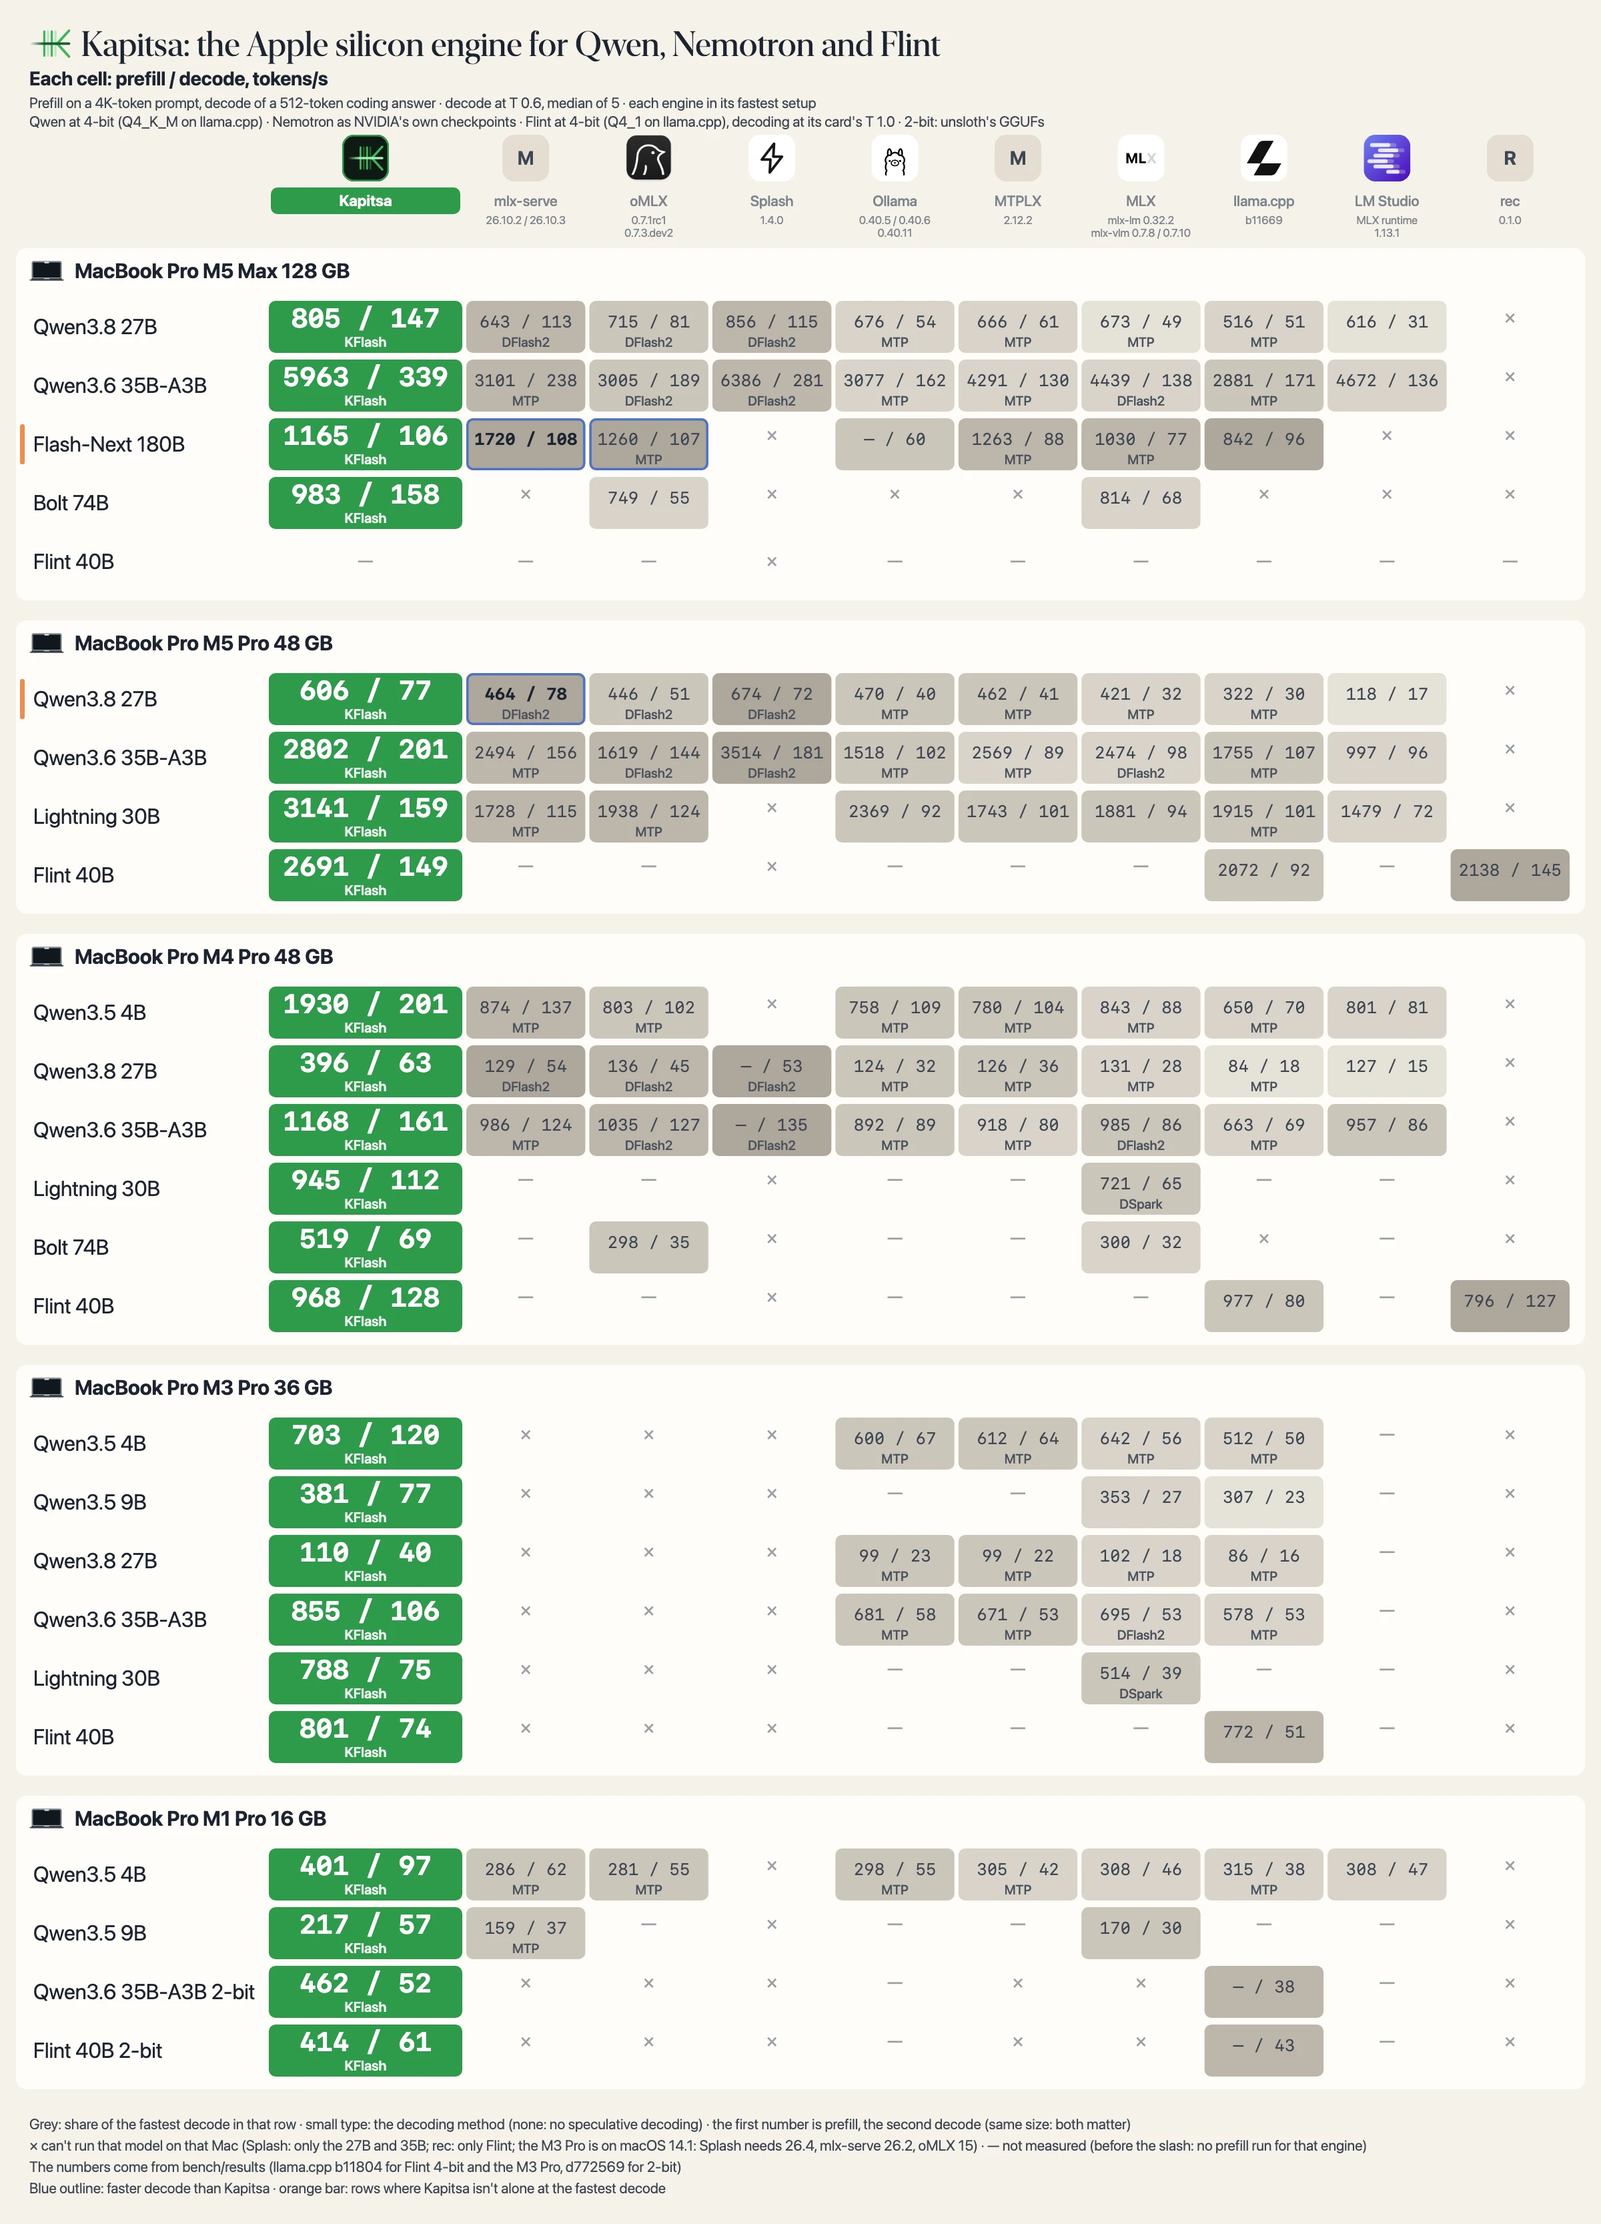
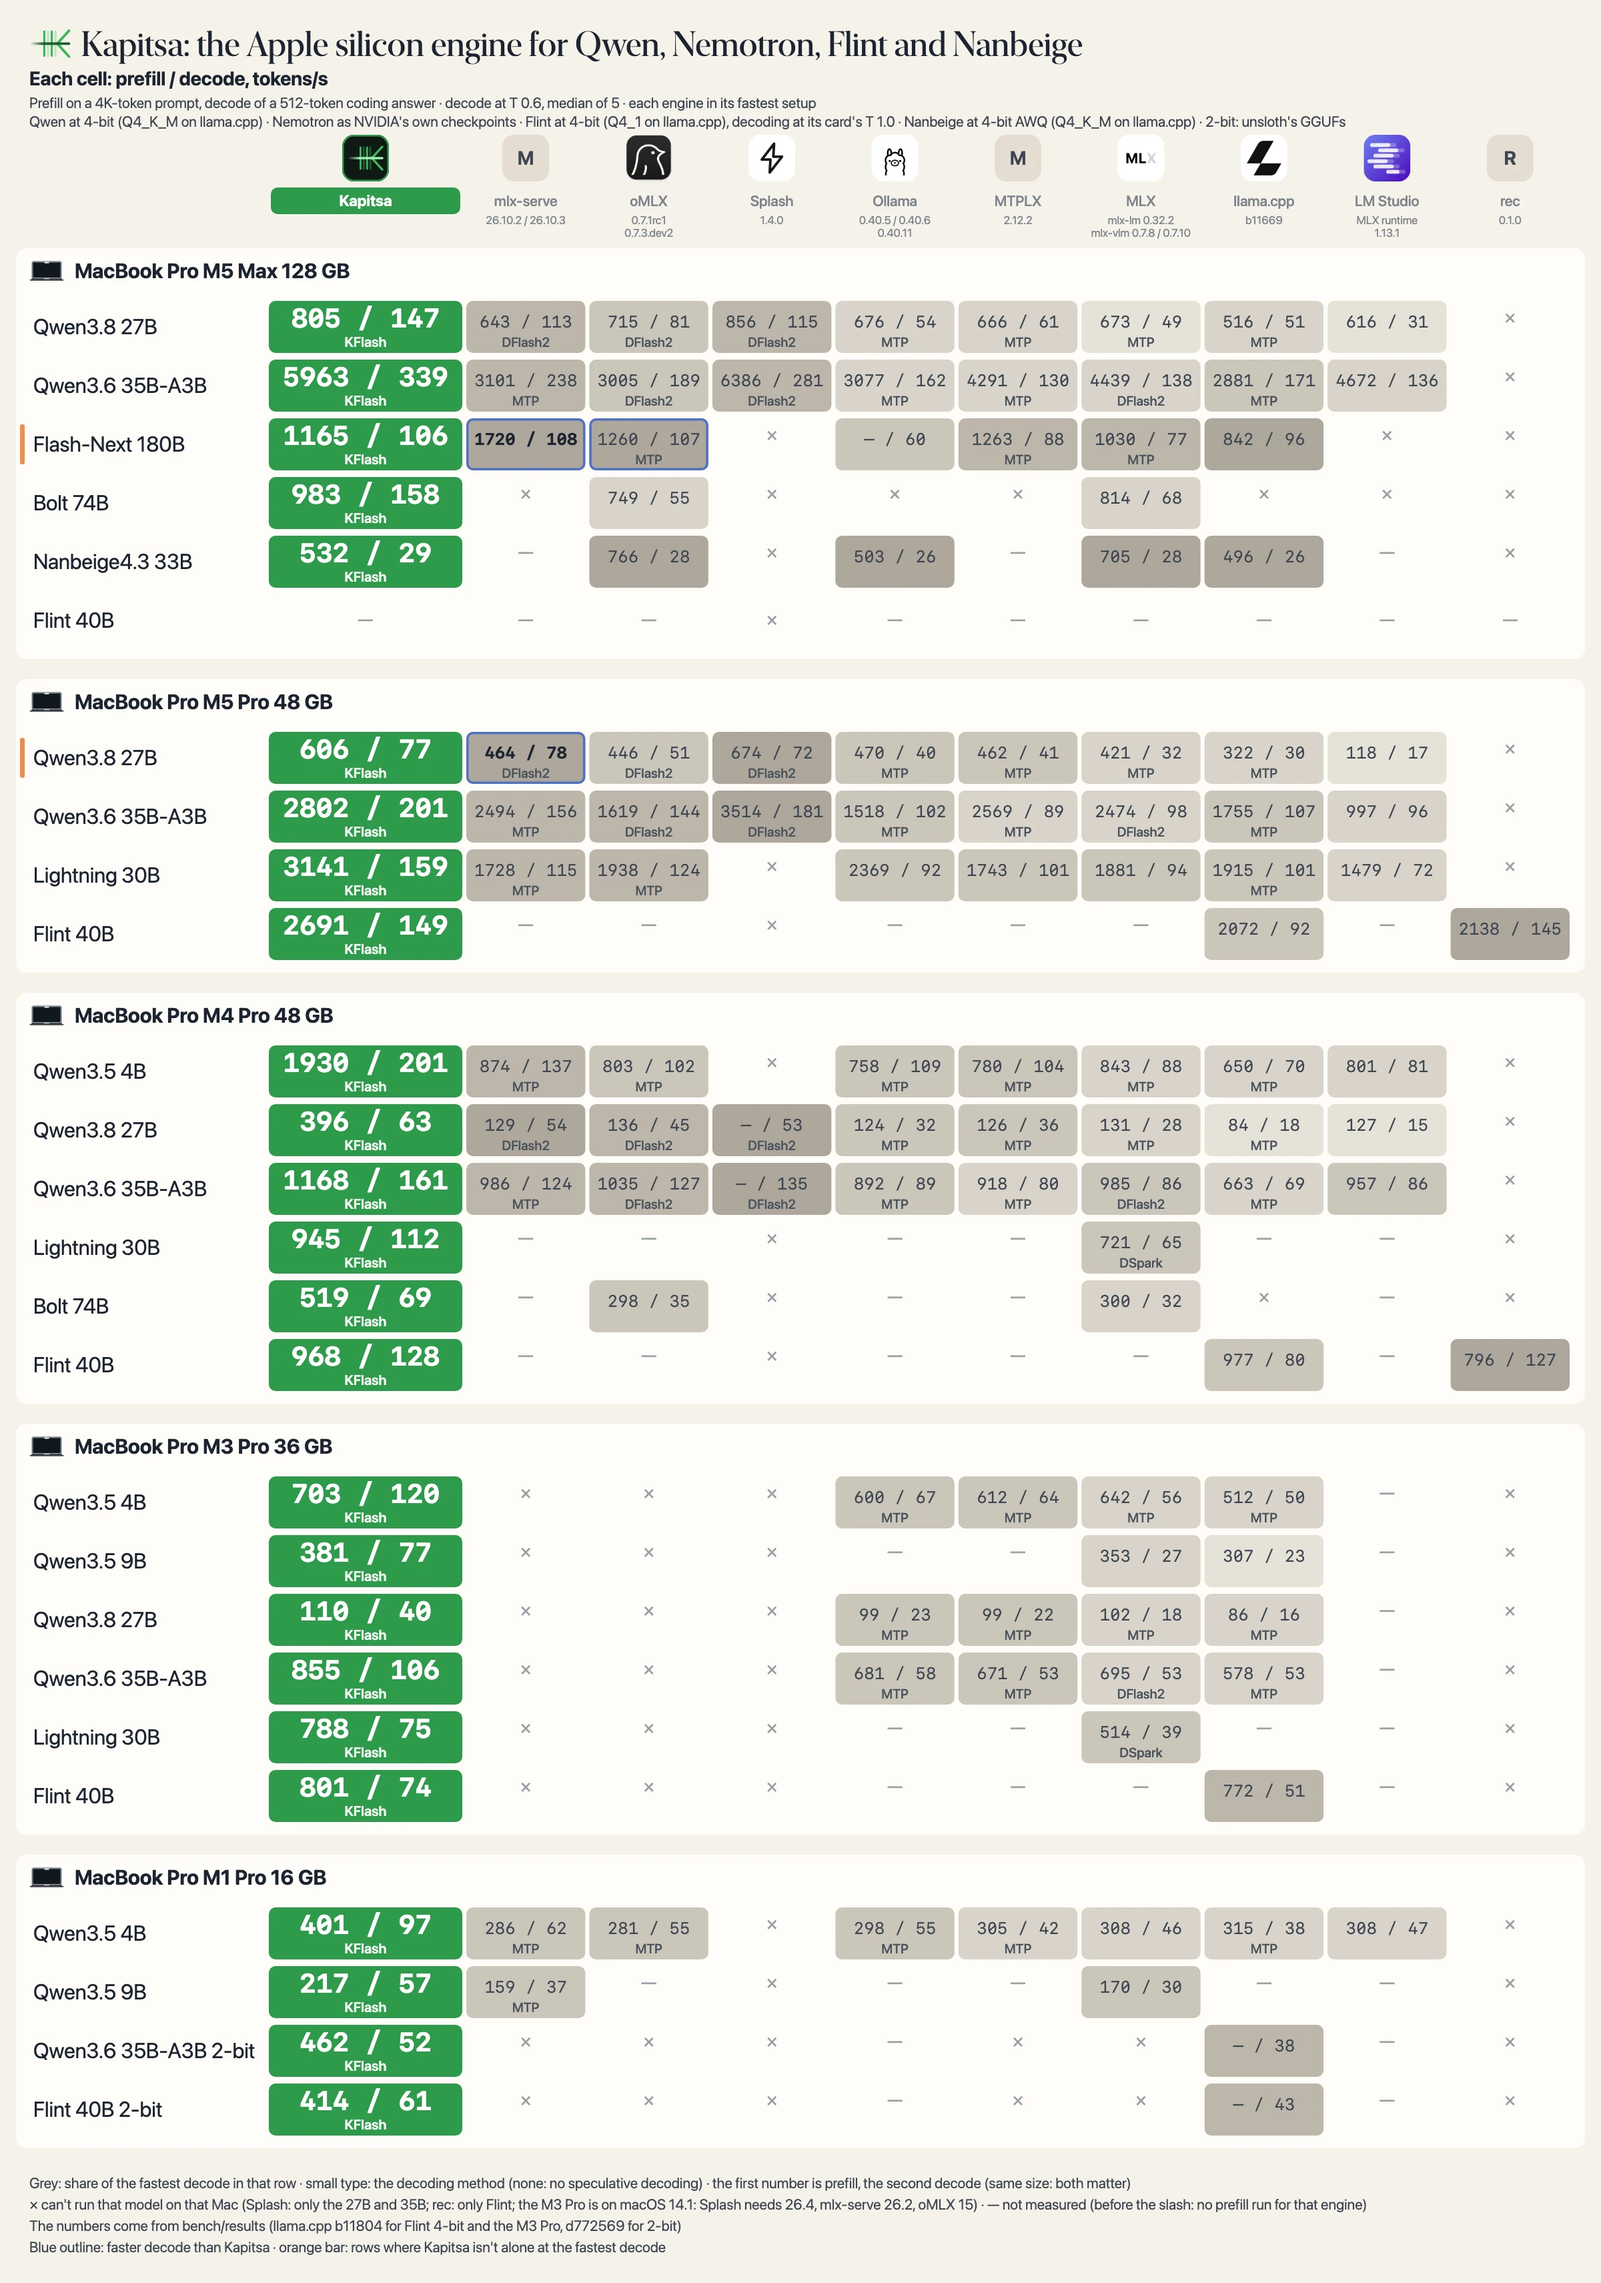
Poster and tables: Nanbeige4.3-33B on the M5 Max (Kapitsa 532 / 29 tok/s, the row's fastest decode; 33 of 37 pairs)

Changed region(s): [[0.0, 0.0, 1.0, 0.9982], [0.9062, 0.5615, 1.0, 0.6239], [0.7812, 0.0624, 0.8125, 0.0936]]

diff --git a/tests/test_readme_images.py b/tests/test_readme_images.py
@@ -25,7 +25,7 @@ for r in rows:
     if ri.is_num(v):
         n += 1
         assert label == "KFlash", (r["model"], label)
-assert n == 37, n   # every Kapitsa number in readme_images.json; update when cells are added or removed
+assert n == 38, n   # every Kapitsa number in readme_images.json; update when cells are added or removed
 assert all(h["method"] == "KFlash" for h in ri.header_rows(data) if h["kap"] and h["value"] is not None)
 hr = ri.header_rows(data)   # the header SVGs' <desc> (and the README alt text) name Kapitsa's method as KFlash
 assert "Kapitsa with KFlash " in ri.header_desc(data, hr), ri.header_desc(data, hr)

diff --git a/README.md b/README.md
@@ -13,7 +13,7 @@ Kapitsa is an inference engine for Apple silicon that runs Qwen, Nemotron and Re
 - [2026/10] 🪶 **Flint on a 16 GB Mac: decodes at 61 tok/s vs llama.cpp's 43 on the same 2-bit GGUF.** `--model flint` takes unsloth's 2-bit GGUF on 16-24 GB Macs: its routed experts run as stored, the rest requantized to 3-6 bits. 61 tok/s decode on an M1 Pro, in 11.6 GB ([numbers](docs/benchmarks.md#recursive-flint-40b-a25b-with-2-bit-experts-m1-pro-16-gb-2026-10-22)).
 - [2026/10] 🪨 **Recursive's Flint 40B-A2.5B: Kapitsa reads prompts faster than Recursive's own engine and decodes faster than llama.cpp.** On the M4 Pro every Kapitsa run read 4K and 16K prompts faster than every run of rec 0.1.0. On the M5 Pro, since Flint's attention moved to the tensor units (#345), both runs read 4K and 16K prompts faster than rec's and llama.cpp's; earlier builds read slower, and both runs carry harness flags. On both Macs every Kapitsa run decodes faster than llama.cpp ([M4 Pro](docs/benchmarks.md#recursive-flint-40b-a25b-m4-pro-2026-10-22), [M5 Pro](docs/benchmarks.md#recursive-flint-40b-a25b-m5-pro-2026-10-22)).
 - [2026/10] 🚀 **KFlash: tree speculative decoding, up to 3.5× llama.cpp and 2.2× oMLX.** One verify pass checks a whole tree of the drafter's guesses ([how it works](docs/kflash.md)).
-- [2026/10] 🏆 **Kapitsa: the fastest decode in 32 of 36 model and Mac pairs** against nine engines, up to 3.0× MLX ([poster](#benchmarks)).
+- [2026/10] 🏆 **Kapitsa: the fastest decode in 33 of 37 model and Mac pairs** against nine engines, up to 3.0× MLX ([poster](#benchmarks)).
 - [2026/10] 🤝 **KFlash budget: subagents decode together.** Three requests at once share one verify pass, up to **+23% total throughput** on the 27B.
 - [2026/10] ⚡ **QMT prefill: read the prompt up to 1.5× faster on M5.** Metal 4 matrix units for the prompt (4B, M5 Pro).
 - [2026/10] 💾 **SSD prefix cache: restart the server, keep the conversation.** A 16K-token follow-up on the 35B starts in **0.16 s instead of 17 s**, about 100× (`--disk-cache`).
@@ -59,7 +59,7 @@ server to its own Mac. [Usage guide](docs/usage.md)</sub>
 
 ## Benchmarks
 
-Kapitsa has the fastest decode in 32 of the 36 model and Mac pairs measured against nine engines ([how each number was measured](docs/benchmarks.md#how-the-readme-poster-was-measured)).
+Kapitsa has the fastest decode in 33 of the 37 model and Mac pairs measured against nine engines ([how each number was measured](docs/benchmarks.md#how-the-readme-poster-was-measured)).
 
 <picture>
   <source media="(prefers-color-scheme: dark)" srcset="docs/assets/benchmarks-dark.webp">
@@ -77,7 +77,9 @@ The catalog models measured on each Mac, against the engines that run them: one 
 <sub>Each cell: prefill / decode, tokens/s (a lone number is decode: no prefill run) · 🟩 fastest decode · ≈ a decode tie with Kapitsa · small type: the decoding method (none: no speculative decoding) · × can't run on that Mac · — not measured</sub>
 
 <details>
-<summary><b>MacBook Pro (16-inch, 2026) · M5 Max · 128 GB</b> · 7 models</summary>
+<summary><b>MacBook Pro (16-inch, 2026) · M5 Max · 128 GB</b> · 8 models</summary>
+
+**Qwen and Nemotron**
 
 | Model | <mark>**Kapitsa**</mark> | <sub>mlx‑serve<br>26.10.2 / 26.10.3</sub> | <sub>oMLX<br>0.7.1rc1 / 0.7.3.dev2</sub> | <sub>Splash<br>1.4.0</sub> | <sub>Ollama<br>0.40.5 / 0.40.11</sub> | <sub>MTPLX<br>2.12.2</sub> | <sub>MLX<br>mlx-vlm 0.7.8 / 0.7.10</sub> | <sub>llama.cpp<br>b11669</sub> | <sub>LM&nbsp;Studio<br>MLX runtime 1.13.1 (nax), llama.cpp runtime 2.60.0</sub> |
 | --- | ---: | ---: | ---: | ---: | ---: | ---: | ---: | ---: | ---: |
@@ -89,7 +91,13 @@ The catalog models measured on each Mac, against the engines that run them: one 
 | **Nemotron 3.5 Bolt 74B-A9B** · `bolt`<br><sub>hybrid MoE, 9B active · 2/4/8-bit mix, 25.1 GB</sub> | 🟩 983 / **158**<br><sub>KFlash · cd20dcc</sub> | × | 749 / 55<br><sub>0.7.3.dev2</sub> | × | × | × | 814 / 68<br><sub>mlx-vlm 0.7.10</sub> | × | × |
 | **Nemotron 3.5 Super-VL 120B-A12B** · `super`<br><sub>hybrid MoE, 12B active · NVFP4, 76.4 GB</sub> | 🟩 **94**<br><sub>KFlash · fd85910</sub> | × | 52<br><sub>0.7.1rc1</sub> | × | 64<br><sub>0.40.5</sub> | 44 | 46<br><sub>mlx-vlm 0.7.8</sub> | 66 | 61<br><sub>llama.cpp runtime 2.60.0</sub> |
 
-<sub>The 27B, 35B-A3B and Bolt rows are the 2026-10-25 session (Kapitsa main cd20dcc and each engine's latest release, macOS 26.4); llama.cpp's cells there, the Flash-Next row and the Nemotron rows are the 2026-10-18 to 10-22 runs, not yet re-measured. The build each cell ran is under its number; details in [bench/results/2026-10-25-m5-max](bench/results/2026-10-25-m5-max/README.md).</sub>
+**Nanbeige**
+
+| Model | <mark>**Kapitsa**</mark> | <sub>oMLX<br>0.7.3.dev2</sub> | <sub>Ollama<br>0.40.11, GGUF runner</sub> | <sub>MLX<br>mlx-vlm 0.7.10</sub> | <sub>llama.cpp<br>b11871</sub> |
+| --- | ---: | ---: | ---: | ---: | ---: |
+| **Nanbeige4.3-33B** · `nanbeige`<br><sub>dense · 4-bit AWQ (8-bit embedding and head), 19.8 GB</sub> | 🟩 532 / **29**<br><sub>KFlash</sub> | 766 / 28 | 503 / 26 | 705 / 28 | 496 / 26 |
+
+<sub>The 27B, 35B-A3B and Bolt rows are the 2026-10-25 session (Kapitsa main cd20dcc and each engine's latest release, macOS 26.4); llama.cpp's cells there, the Flash-Next row and the Nemotron rows are the 2026-10-18 to 10-22 runs, not yet re-measured. The build each cell ran is under its number; details in [bench/results/2026-10-25-m5-max](bench/results/2026-10-25-m5-max/README.md). The Nanbeige row is the 2026-10-25 harness run (Kapitsa 5bee92c, plain decoding; the GGUF engines on Q4_K_M) in [bench/results/2026-10-25-m5-max-nanbeige](bench/results/2026-10-25-m5-max-nanbeige/README.md).</sub>
 
 </details>
 

diff --git a/docs/benchmarks.md b/docs/benchmarks.md
@@ -27,7 +27,7 @@ decode over the next fastest engine on that model.
 | [M3 Pro, 36 GB](#m3-pro) | 4B 1.79x · 9B **2.90x** · 27B 1.77x · 35B-A3B 1.84x · Lightning 1.92x · Flint 1.45x · Dory 1.21x | Nano 4B decode: llama.cpp 34.9 against 34.4. Nano 9B v2: mlx-lm 24.9 against 20.9 (both on lighter 4-bit files) |
 | [M1 Pro, 16 GB](#m1-pro) | 4B 1.56x · 9B 1.54x · 35B-A3B 2-bit 1.37x · Flint 2-bit 1.42x · Dory 1.30x · Nano 4B 1.32x · Nano 9B v2 1.39x | — |
 
-Kapitsa has the fastest decode in 32 of the 36 model and Mac pairs.
+Kapitsa has the fastest decode in 33 of the 37 model and Mac pairs.
 
 <a id="how-the-readme-poster-was-measured"></a><a id="the-readmes-tables"></a>
 
